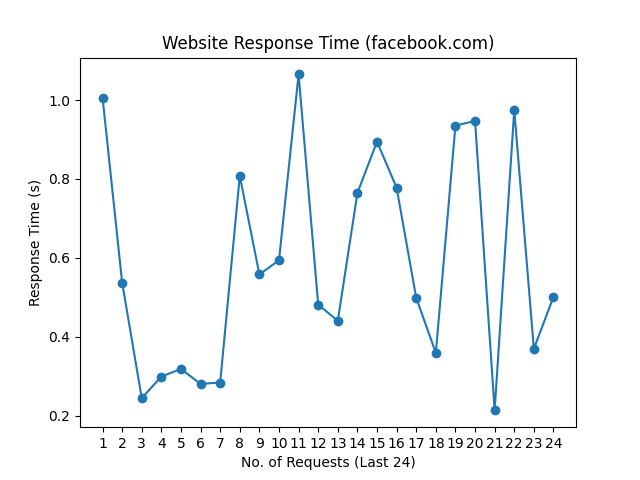
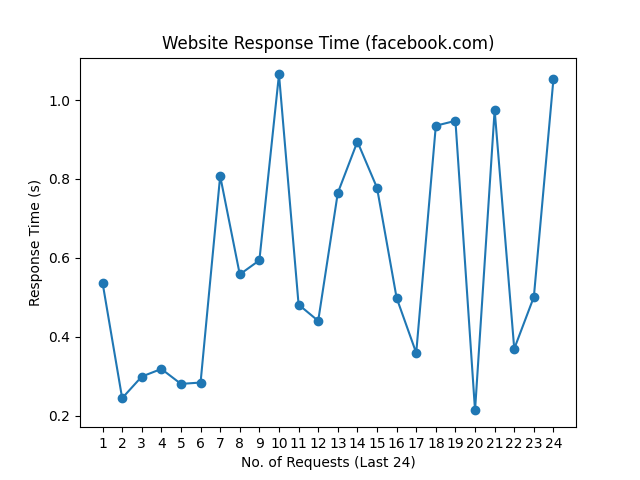
update README.md, history and graph

Changed region(s): [[0.1562, 0.125, 0.875, 0.875], [0.1562, 0.1875, 0.1875, 0.5312]]

diff --git a/README.md b/README.md
@@ -1,10 +1,10 @@
 # Web Monitoring
 
-Last Checked: 21/12/2024 08:19
+Last Checked: 22/12/2024 08:22
 
 | Website | Response Time (s) | Status | Avg Uptime (%) |
 |---------|-------------------|--------|----------------|
 | www.thiswebsiteisdown.net | 0 <br> <img src="graph/thiswebsiteisdown.net.png" alt="Graph" width="200" height="200">  | ❌ Down | 0.00 |
-| www.netflix.com | 1.528053 <br> <img src="graph/netflix.com.png" alt="Graph" width="200" height="200">  | ✅ Up | 99.80 |
-| www.google.com | 0.075717 <br> <img src="graph/google.com.png" alt="Graph" width="200" height="200">  | ✅ Up | 100.00 |
-| www.facebook.com | 0.501224 <br> <img src="graph/facebook.com.png" alt="Graph" width="200" height="200">  | ✅ Up | 100.00 |
+| www.netflix.com | 1.331817 <br> <img src="graph/netflix.com.png" alt="Graph" width="200" height="200">  | ✅ Up | 99.80 |
+| www.google.com | 0.076964 <br> <img src="graph/google.com.png" alt="Graph" width="200" height="200">  | ✅ Up | 100.00 |
+| www.facebook.com | 1.053458 <br> <img src="graph/facebook.com.png" alt="Graph" width="200" height="200">  | ✅ Up | 100.00 |
